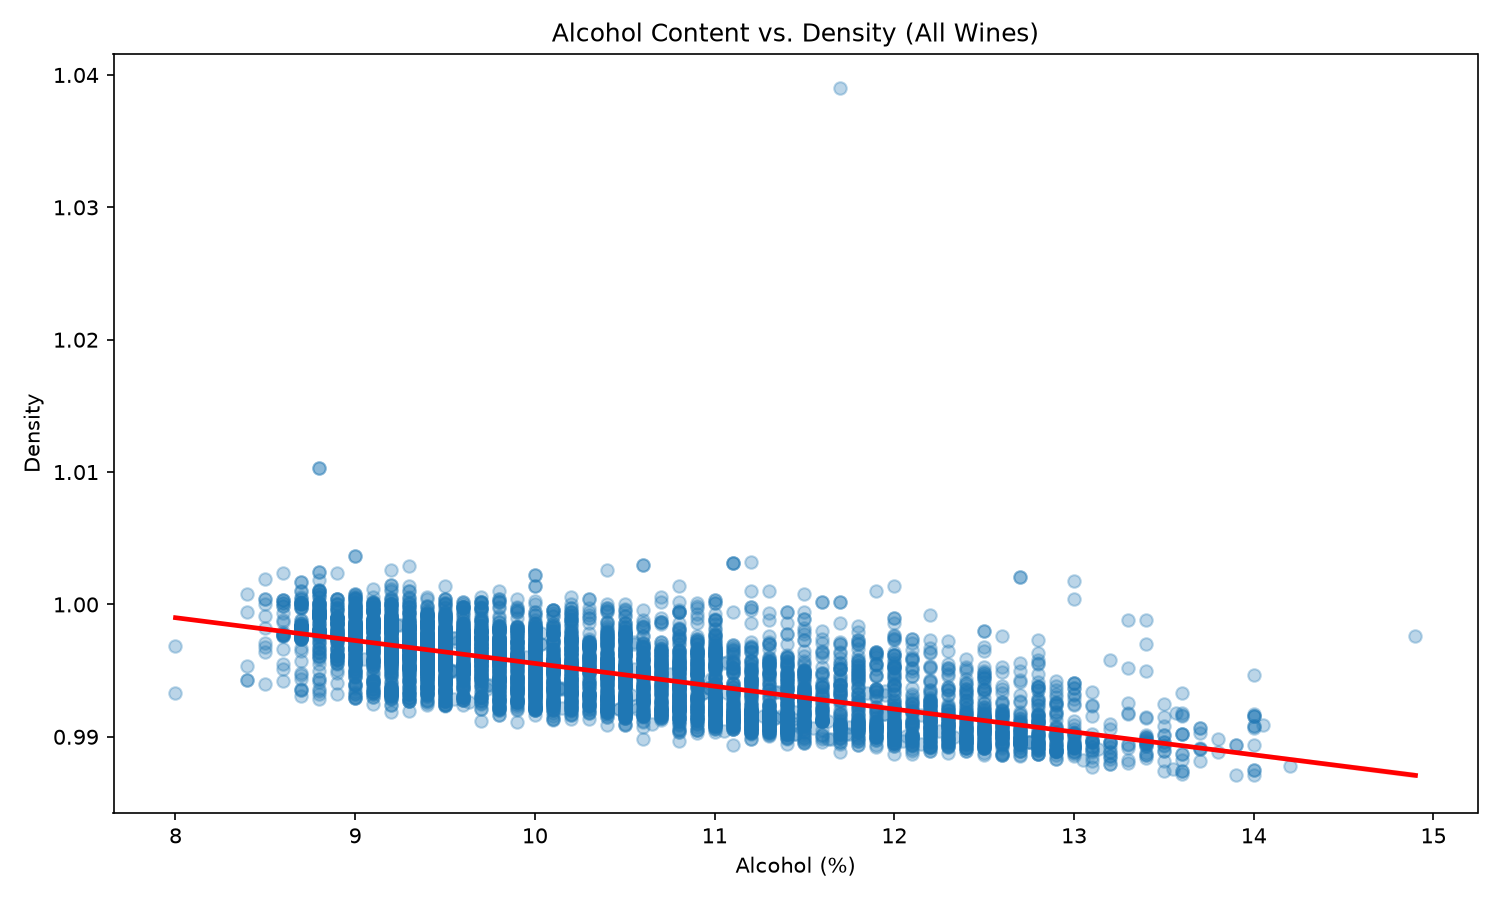
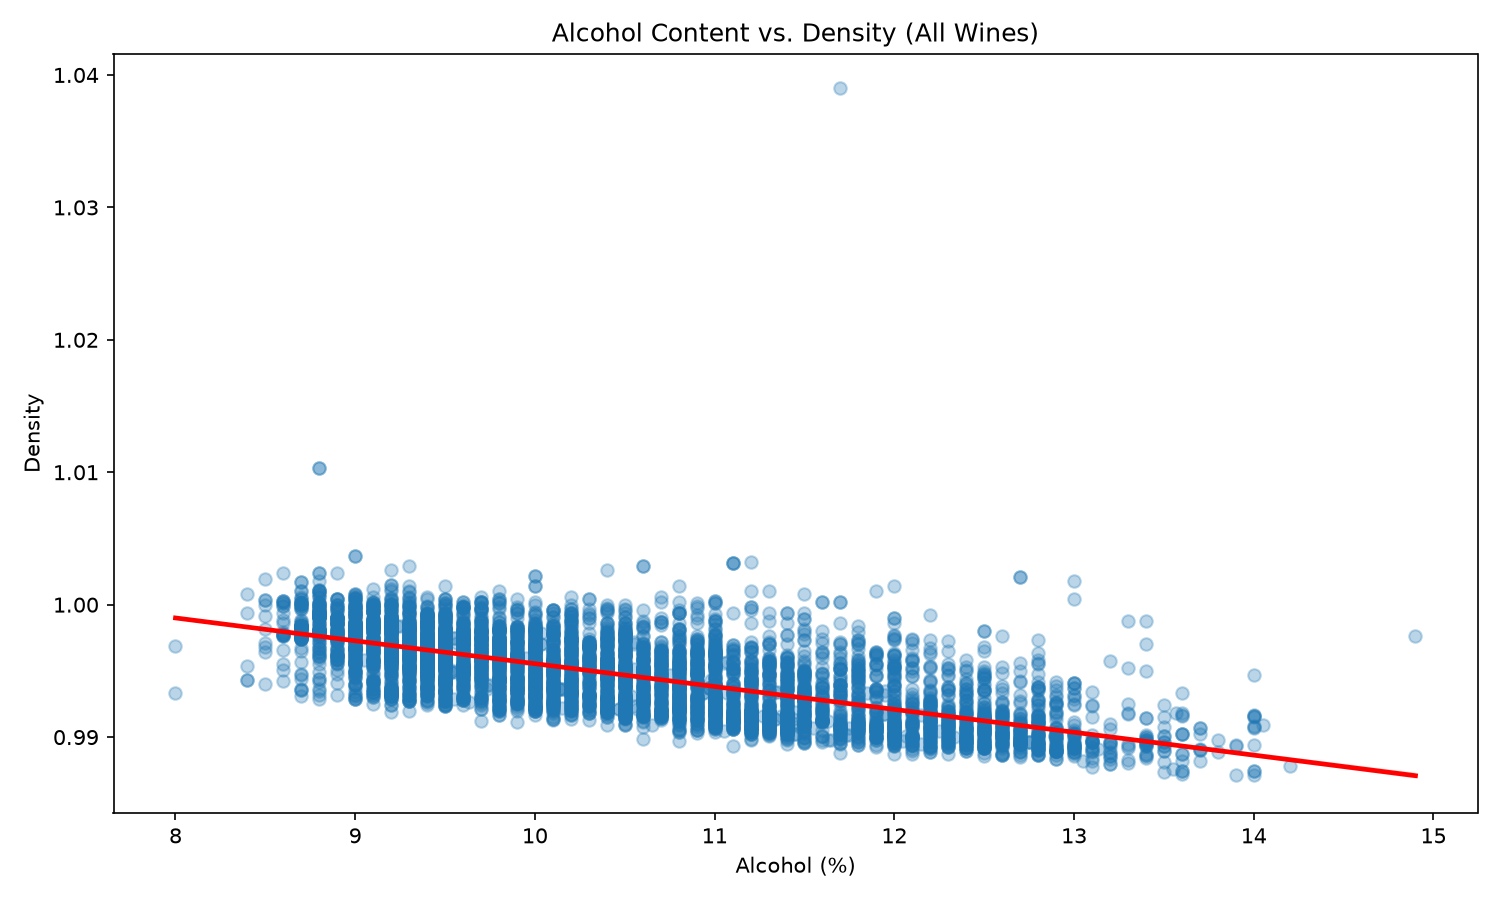
Changed graph location & corresponding code for it

diff --git a/analysis.py b/analysis.py
@@ -100,22 +100,16 @@ plt.title("Alcohol Content by Wine Quality Score")
 plt.xlabel("Quality Score")
 plt.ylabel("Alcohol (%)")
 plt.tight_layout()
-plt.savefig("quality_vs_alcohol.png", dpi=150)
+plt.savefig("graphs/quality_vs_alcohol.png", dpi=150)
 print("Boxplot is saved as quality_vs_alcohol.png")
 
 
 # Step 7: Visualization of Scatter Plot with Trend Line
 plt.figure(figsize=(10, 6))
-sns.regplot(
-    data=wine,
-    x="alcohol",
-    y="density",
-    scatter_kws={"alpha": 0.3},
-    line_kws={"color": "red"},
-)
+sns.regplot(data=wine, x="alcohol", y="density", scatter_kws={"alpha": 0.3}, line_kws={"color": "red"})
 plt.title("Alcohol Content vs. Density (All Wines)")
 plt.xlabel("Alcohol (%)")
 plt.ylabel("Density")
 plt.tight_layout()
-plt.savefig("alcohol_vs_density.png", dpi=150)
+plt.savefig("graphs/alcohol_vs_density.png", dpi=150)
 print("Scatter plot with trend line saved as alcohol_vs_density.png")
